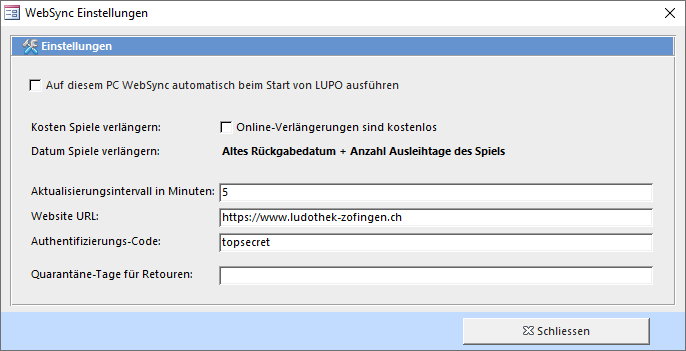
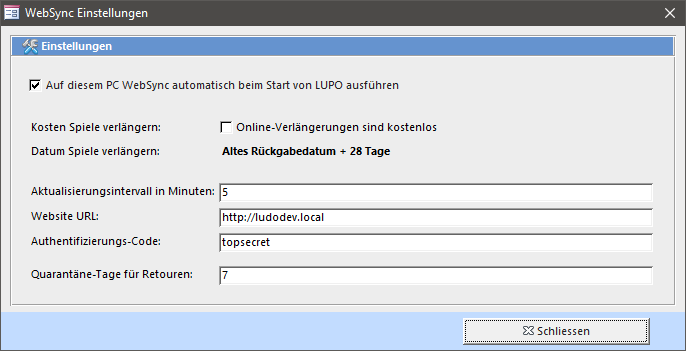
WIP

diff --git a/user/pages/10.ludothek-webseite/10.websync/docs.de.md b/user/pages/10.ludothek-webseite/10.websync/docs.de.md
@@ -13,14 +13,37 @@ Neben dem Ausleihstatus ist das WebSync Programm auch zuständig zur Übermittlu
 
 ##WebSync einrichten
 
-Das WebSync-Programm kann vom LUPO her gestartet werden:
+Das WebSync-Programm kann im Fenster **Joomla / Internetexport** konfiguriert und gestartet werden.
 ![internetexport-websync](../../images/internetexport-websync.png)
-Bei gesetztem Häkchen öffnet sich das Programm automatisch.
 
-![websync](../../images/websync.png)
+Wenn WebSync genutzt wird sollte es automatisch mit dem LUPO-Programm gestartet werden. Falls im Netzwerk gearbeitet wird empfiehlt sich, dass das WebSync auf dem "Haupt"-PC ausgeführt wird.
 
-In den WebSync-Einstellungen können folgende Werte definiert werden:
+!! Wird im Netzwerk gearbeitet darf das WebSync-Programm nur einmal gestartet werden. Alle Änderungen vom anderen PC, z.B. Rücknahmen, werden auch vom Haupt-PC erkannt und an die Webseite geschickt.
+
+**E-Mail**  
+Im einen Erinnerungs- oder Mahnungs-E-Mail kann der Platzhalter **{{LOGINLINK}}** eingefügt werden. Im E-Mail an den Kunden wird dann dort der Link eingefügt über welchen der Kunde direkt ohne sich anmelden zu müssen auf seinem Kundenprofil landet.
+
+Wird bei **Loginlink-Text** der Wert "Spiele online verlängern" eingefügt, so erscheint der Link als [Spiele online verlängern](https://example.com/sortiment/kundenlogin?ll=0-LULU), ansonsten wird nur die URL angezeigt: [https://example.com/sortiment/kundenlogin?ll=0-LULU](https://example.com/sortiment/kundenlogin?ll=0-LULU) 
+
+#### WebSync Fenster beim automatischen Öffnen nicht anzeigen
+
+Ist diese Option aktiviert erscheint, so erscheint das WebSync nicht als Reiter neben dem Übersicht-Reiter. Wenn WebSync läuft wird in der Übersicht links unten ein Icon angezeigt.
+
+![websync-icon](../../images/websync-uebersichticon.png?classes=caption "Mit einem Klick auf das Icon öffnet sich das WebSync-Fenster")
+
+
+![websync](../../images/websync.png?classes=caption "WebSync-fenster mit Log-Anzeige")
+
+### WebSync Einstellungen
+
+Der Button <span class="btn-lupo">Einstellungen</span> öffnet ein Fenster zur Konfiguration.
+ 
 ![websync-einstellungen](../../images/websync-einstellungen.png)
+
+**Verlängerungen**  
+Es kann definiert werden ob Online-Verlängerungen kostenlos sind. Ist die Verlängerung nicht kostenlos zählt dieselbe Logik, wie wenn im Ausleihfenster das Spiel manuell für den Kunden verlängert wird. 
+
+Die Anzahl Verlängerungs-Tage sind in den [Einstellungen](/einstellungen/allgemeine-einstellungen/ausleihen#spiele-verlängern) definiert. Es werden die Tage der untersten Option verwendet (altes Rückgabedatum + x Tage). Beim Einlesen und Verarbeiten der verlängerten Spiele in LUPO wird der Ferienplan berücksichtigt. 
 
 **Aktualisierungsintervall in Minuten**  
 In diesem Intervall werden die Daten auf den WebServer geladen bzw. von diesem abgerufen. Der Mindestwert beträgt 5 Minuten.
@@ -43,3 +66,4 @@ Im Joomla-Administrator bei der LUPO-Komponente unter <span class="btn-lupo">Opt
 ![websync-online](../../images/websync-online.png)
 
 Der Auth-Code muss mit dem im LUPO eingetragenen Wert korrespondieren. 
+
